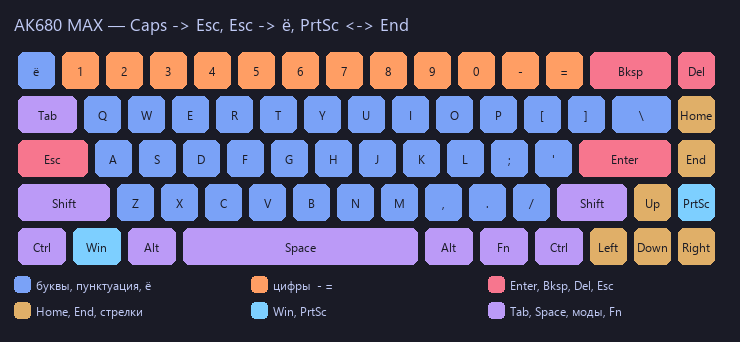
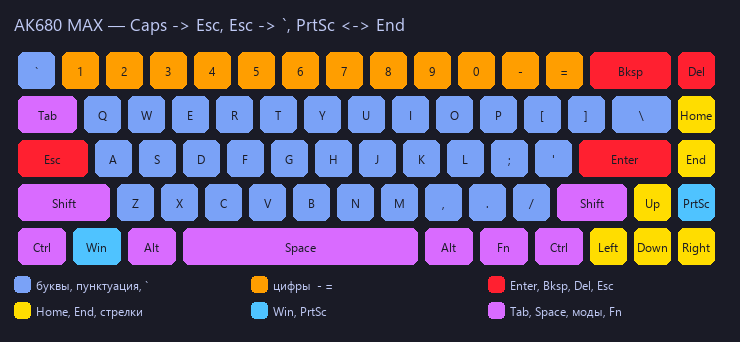
Подсветка: сочные цвета вместо пастели, угол = ` (grave)
- пастельные hex TokyoNight на LED вымывались: оранжевый/жёлтый — в белый,
  красный — в светло-розовый, фиолетовый — в синий;
- у оранжевого/жёлтого/красного B=0, фиолетовый сдвинут в красную сторону,
  голубой (Win/PrtSc) сделан насыщеннее;
- подписи и документация: угловая клавиша — ` (grave; в RU — ё), не «ё»;
- пересобраны PNG (данные + превью с легендой), обновлены README/AGENTS/TASKS.

diff --git a/TASKS.md b/TASKS.md
@@ -8,8 +8,9 @@
 
 ## Раскладка
 
-- [x] **Ё на углу, Esc на Caps** (2026-10-25): `1` (физический Esc) → grave/ё,
-      `3` (CapsLock) → Esc. CapsLock убран. На Linux для ё без Fn достаточно раскладки us,ru.
+- [x] **` на углу, Esc на Caps** (2026-10-25/26): `1` (физический Esc) → grave (в EN
+      это `` ` ``/`~`, в RU — ё), `3` (CapsLock) → Esc. CapsLock убран. Раскладка
+      английская, поэтому на картинке и в README клавиша называется `` ` ``.
 - [x] **Ё без Fn (Mod-Tap)** — рецепт в `README.md` → «Ё: удержание „е“ (Mod-Tap)».
       **Отвергнут при реальном наборе**: при пороге 200 мс клавиша «е» печатается с задержкой
       (при быстром наборе следующий символ успевает раньше «е»). Сейчас на клавише обычный
@@ -28,16 +29,14 @@
 
 ## Подсветка
 
-- [x] **Поправить цвета** — сделано 2026-10-25: палитра TokyoNight по клавишам
-      (буквы/пунктуация/ё синие, цифры оранжевые, Enter/Bksp/Del/Esc красные,
-      Home/End/стрелки жёлтые, Win/PrtSc голубые, моды фиолетовые). Правый столбец:
-      Del/Home/End/PrtSc, причём PrtSc и End поменяны местами (87=End, 88=PrtSc).
-      Побочно выяснилось, что userpic — это матрица, а не картинка: правая колонка
-      (85–89) не горела, потому что в старой картинке там были чёрные клетки. Теперь цвет
-      берётся по HID usage из `MATRIX_USAGE` после base-ремапа
-      (`windows/ak680_apply.py` → `zone_color`). Цвета искажались из-за неравномерных
-      каналов — добавлена компенсация `LED_GAIN`/`to_device()`. Идеи на потом: яркость
-      по зонам, реактивные эффекты (см. ниже).
+- [x] **Поправить цвета** — сделано 2026-10-25/26: палитра TokyoNight по клавишам,
+      но сочными вариантами (буквы/пунктуация/` синие, цифры оранжевые, Enter/Bksp/Del/Esc
+      красные, Home/End/стрелки жёлтые, Win/PrtSc голубые, моды фиолетовые). Правый
+      столбец: Del/Home/End/PrtSc, причём PrtSc и End поменяны местами (87=End, 88=PrtSc).
+      Пастельные hex TokyoNight на LED вымывались в белый/розовый/синий, поэтому у тёплых
+      каналов B=0, фиолетовый краснее. Цвет берётся по HID usage из `MATRIX_USAGE` после
+      base-ремапа (`windows/ak680_apply.py` → `zone_color`), плюс компенсация каналов
+      `LED_GAIN`/`to_device()`. Идеи на потом: яркость по зонам, реактивные эффекты.
 
 ## CAPS
 

diff --git a/AGENTS.md b/AGENTS.md
@@ -23,9 +23,9 @@
   85=Home 86=Delete 87=PageUp 88=PageDown. Ремап по имени (например `remap pgup Esc`) бьёт
   в соседнюю клавишу. По индексу — применяется верно (имя в выводе будет неправильным — это нормально).
 - **Index 0 — пустышка**: `remap 0 ...` молча не применяется. Физический Esc — **index 1**.
-- Текущая раскладка: `3` (CapsLock) → **Esc**, `1` (угол/Esc) → **grave (ё)**, `32` (T) →
-  grave на Fn-слое, `85–88` → Del/Home/End/PrtScr (PrtSc и End поменяны: 87=End, 88=PrtScr).
-  CapsLock не используется.
+- Текущая раскладка: `3` (CapsLock) → **Esc**, `1` (угол/Esc) → **grave (в EN `` ` ``)**,
+  `32` (T) → grave на Fn-слое, `85–88` → Del/Home/End/PrtScr (PrtSc и End поменяны:
+  87=End, 88=PrtScr). CapsLock не используется.
 - `remap N N` ≠ no-op: числовая цель трактуется как клавиша-цифра и перезапишет клавишу.
   Меняешь прошивку — начинай с `reset`.
 - Слои: Fn — `remap "Fn+T" ...`, слой 1 — `remap "L1+T" ...`.
@@ -50,6 +50,11 @@
   и `to_device()`: цвет делится на коэффициенты, затем масштабируется до 255. Без этого
   любой пастельный цвет уезжает в болотно-зелёный, а фиолетовый — в синий. Превью
   рисуется задуманными цветами, в PNG-данные идут байты для прошивки.
+- **Палитра намеренно сочная, не hex-коды TokyoNight**: пастельные `#ff9e64`/`#e0af68`/
+  `#f7768e`/`#bb9af7` на подсветке выглядят белым/розовым/синим (у тёплых много синего,
+  у фиолетового синий в максимуме). Поэтому у оранжевого/жёлтого/красного `B = 0`,
+  фиолетовый сдвинут в красную сторону (`#d96bff`). Не «возвращай красивые hex» —
+  проверяй на железе.
 - **Баг (Windows/hidapi, v306)**: подряд идущие `SET_KEYMATRIX` иногда «проглатываются» —
   из пяти ремапов применились три, оставшиеся (`85`, `87`) остались заводскими.
   Лечится записью с проверкой: пишем → читаем назад → повторяем до совпадения
